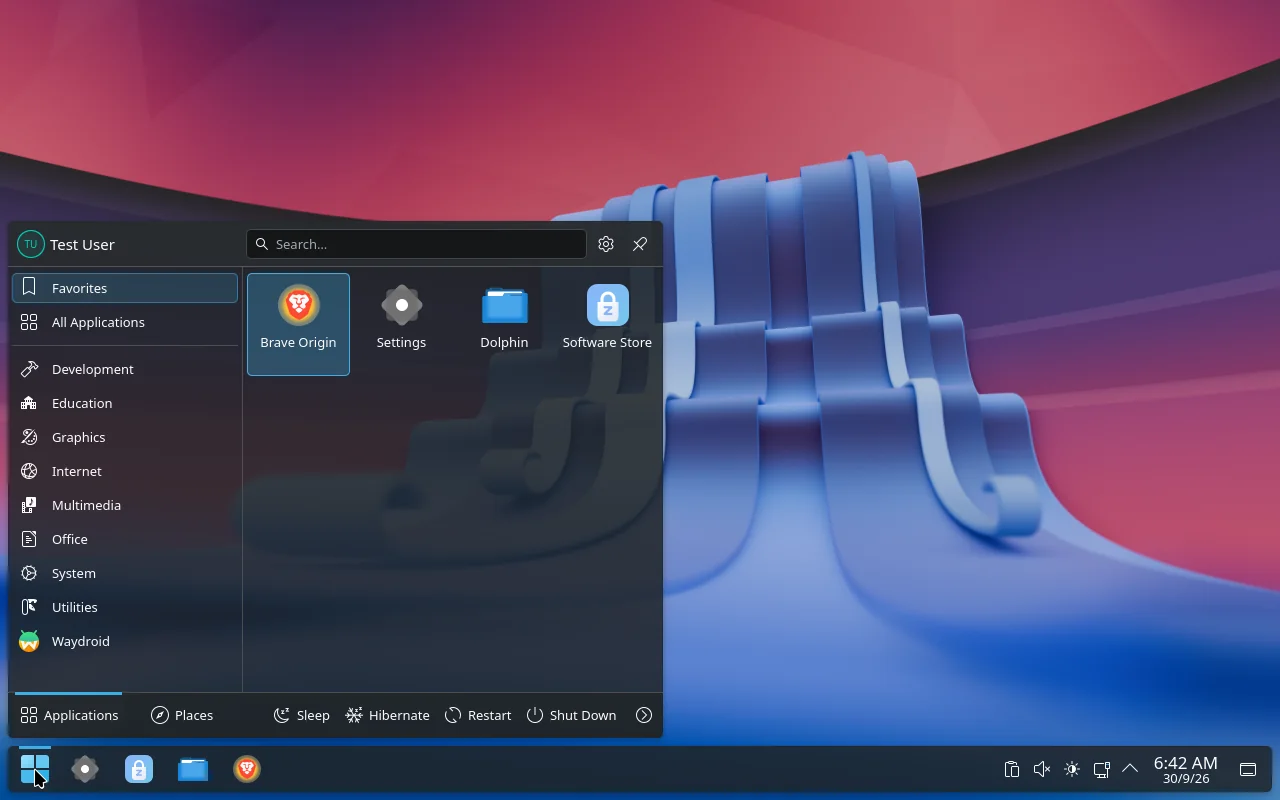
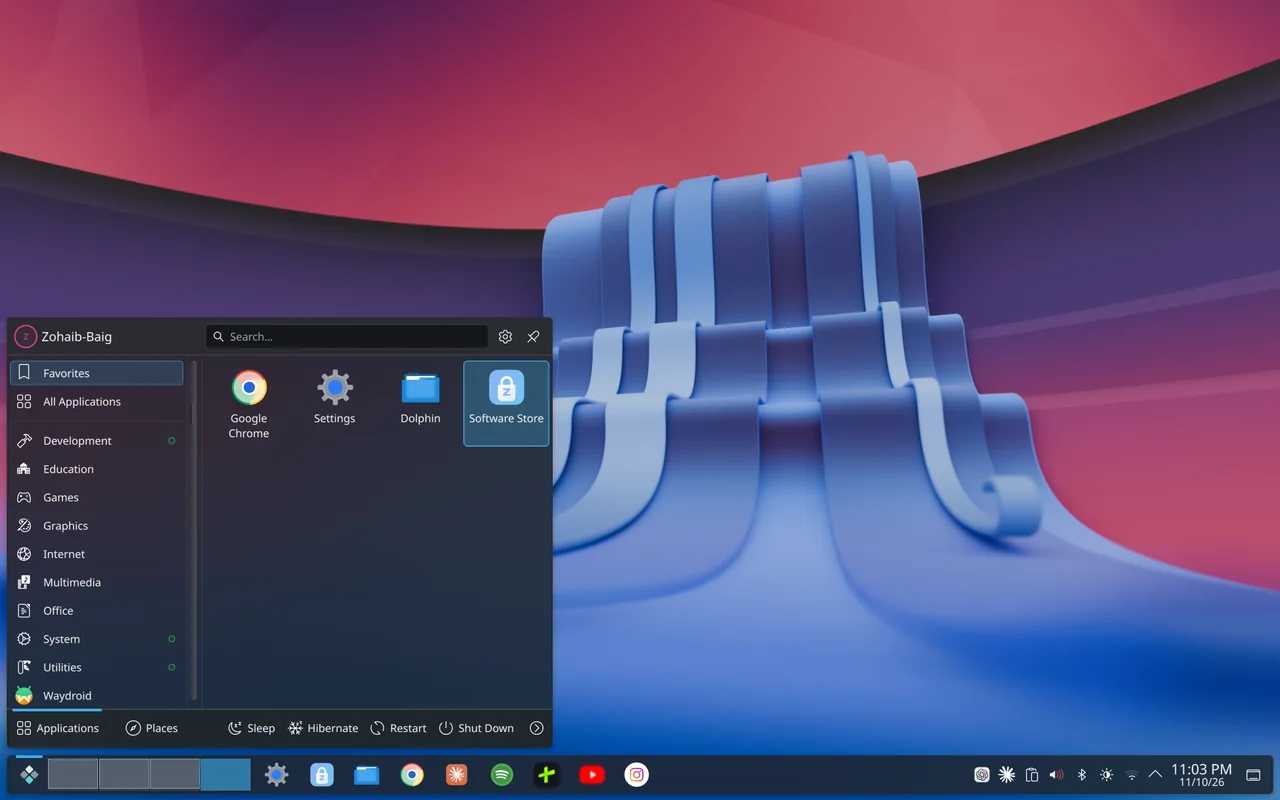
Start menu picture: new screenshot from Zohara OS 1.1 on a real laptop

Changed region(s): [[0.0, 0.25, 1.0, 1.0], [0.125, 0.7188, 0.1562, 0.8125]]

diff --git a/index.html b/index.html
@@ -163,7 +163,7 @@
             <figcaption><strong>Updates.</strong> Pick a channel, choose what to update, and undo the last update.</figcaption>
           </figure>
           <figure>
-            <a href="assets/img/start-menu.webp"><img loading="lazy" src="assets/img/start-menu.webp" width="1280" height="800" alt="The Start menu open over the desktop, with Favorites for Brave Origin, Settings, Dolphin and Software Store, and categories on the left."></a>
+            <a href="assets/img/start-menu.webp"><img loading="lazy" src="assets/img/start-menu.webp" width="1280" height="800" alt="The Zohara Start menu open over the desktop, with a search box, Favorites for Google Chrome, Settings, Dolphin and Software Store, app categories on the left, and Sleep, Hibernate, Restart and Shut Down along the bottom."></a>
             <figcaption><strong>Start menu.</strong> Favorites, categories and search.</figcaption>
           </figure>
           <figure>
